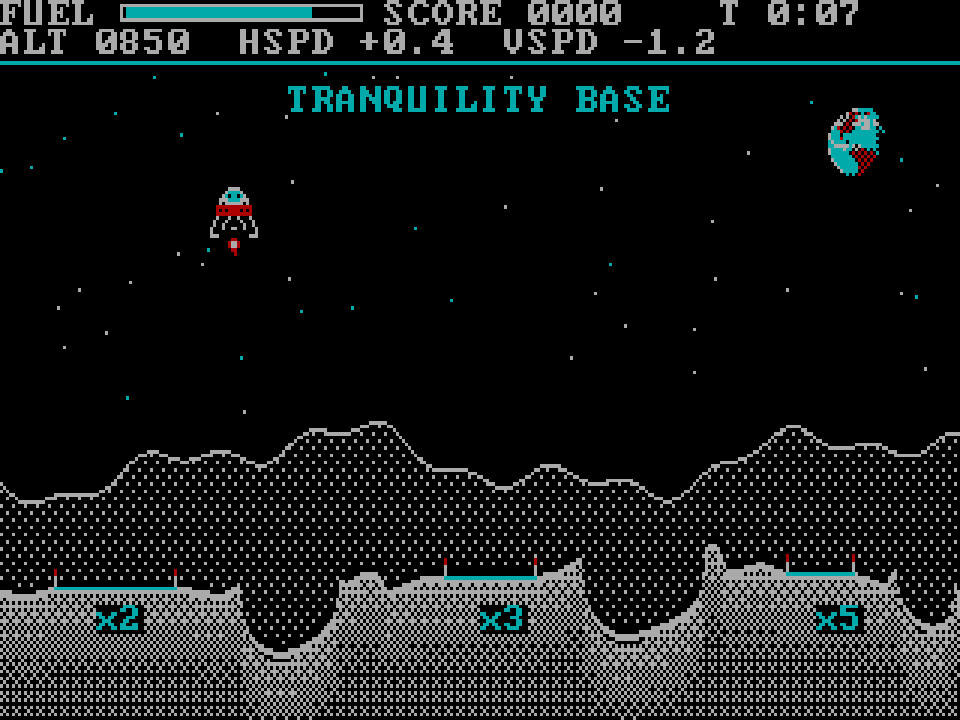
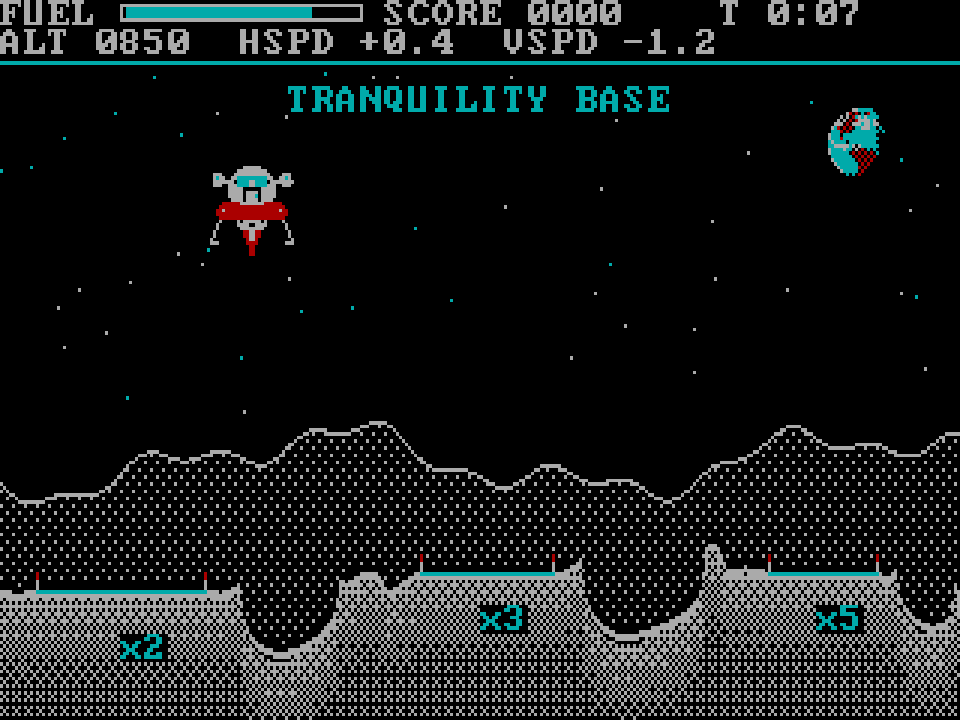
Larger two-stage M1 lander (ascent + descent sprites), wider Easy pads
- tools/mockship2.py: M1 enlarged to 28x22 and split into a 28x10
  ascent stage (cabin, window band, RCS pods, front hatch) and a 28x12
  descent stage (porch, legs, engine bell) for future cutscenes
- Mockups for landing with hatch open and ladder down, and liftoff with
  the descent stage left behind; RCS stays on the ascent stage
- Easy pads widened to 56/44/36 px for the 28 px footprint

Claude-Session: https://claude.ai/code/session_01HSeB1eEUBM7vDXhp8qRXCy

diff --git a/tools/mockship2.py b/tools/mockship2.py
@@ -1,0 +1,151 @@
+"""M1 lander, enlarged and split into two sprites (ascent + descent stage) for future cutscenes.
+Shows: full ship, exploded stages, landed with hatch open + ladder, liftoff sequence, thruster chart.
+"""
+import numpy as np
+from PIL import Image, ImageDraw, ImageFont
+
+PAL = np.array([(0, 0, 0), (0, 170, 170), (170, 0, 0), (170, 170, 170)], np.uint8)
+OUT = "/home/claude/gwbasic/build"
+F = ImageFont.truetype("/usr/share/fonts/truetype/dejavu/DejaVuSans-Bold.ttf", 18)
+FS = ImageFont.truetype("/usr/share/fonts/truetype/dejavu/DejaVuSans.ttf", 15)
+M = {".": 0, "c": 1, "r": 2, "g": 3}
+
+def mirror(half):
+    for h in half: assert len(h) == len(half[0]), h
+    return np.array([[M[c] for c in h + h[::-1]] for h in half], np.uint8)
+
+# 28 wide. Ascent stage: cabin, docking hatch on top, RCS pods, front hatch (closed).
+ASCENT_HALF = [
+    "...........ggg",
+    ".........ggggg",
+    ".ggg....gggggg",
+    ".gcgg..ggccccc",
+    ".ggggggggccccg",   # window band with centre frame
+    ".ggg..gggccccg",
+    "......gggggggg",
+    "......gggggggg",   # hatch drawn below as an outlined panel
+    "......gggggggg",
+    ".......ggggggg",
+]
+# Descent stage: porch, red foil body, bell, splayed legs with foot pads.
+DESCENT_HALF = [
+    "....rrrrrrgggg",   # porch under the hatch
+    "...rrrrrrrrrrr",
+    "..rrgrrrrrrrrr",
+    "..rrrrrrrrrrrr",
+    "...rrrrrrrrrrr",
+    "...g.....g.ggg",   # leg struts + engine bell
+    "..g......gggg.",
+    "..g.......gggg",
+    ".g............",
+    ".g............",
+    "g.............",
+    "ggg...........",
+]
+A = mirror(ASCENT_HALF)
+# hatch: open the centre block with a black panel
+A[6, 11:17] = 0; A[6:10, 11] = 0; A[6:10, 16] = 0; A[8, 15] = 1   # hatch outline + handle
+A[4, 8] = 0; A[4, 19] = 0                                          # notch between cabin and pod arms
+D = mirror(DESCENT_HALF)
+AH, DH, W = A.shape[0], D.shape[0], A.shape[1]
+POD_L, POD_R, POD_Y = 2, W - 3, 4         # pod nozzle centres (in ascent stage coords)
+BELL_Y = 7                                # last bell row in descent stage
+
+def canvas(h, w): return np.zeros((h, w), np.uint8)
+def stamp(px, sp, x, y): px[y:y + sp.shape[0], x:x + sp.shape[1]][sp > 0] = sp[sp > 0]
+def big(px, s): return Image.fromarray(PAL[px]).resize((px.shape[1] * s, int(px.shape[0] * s * 1.2)), Image.NEAREST)
+
+def ship(px, x, y):
+    stamp(px, A, x, y); stamp(px, D, x, y + AH)
+
+def main_plume(px, x, y, length=7):
+    cx = x + W // 2
+    for i in range(length):
+        hw = max(0, 2 - i // 2)
+        px[y + i, cx - 1 - hw:cx + 1 + hw] = 2
+    px[y:y + 3, cx - 1:cx + 1] = 3
+
+JETS = {"side": (-1, 0), "up": (0, -1), "upout": (-1, -1), "downout": (-1, 1)}
+KEYS = {9: [(-1, "downout")], 6: [(-1, "side")], 3: [(-1, "upout")], 2: [(-1, "up"), (1, "up")],
+        1: [(1, "upout")], 4: [(1, "side")], 7: [(1, "downout")]}
+def rcs(px, x, y, key):
+    for side, j in KEYS[key]:
+        dx, dy = JETS[j]
+        if side == 1: dx = -dx
+        x0 = x + (POD_L if side == -1 else POD_R); y0 = y + POD_Y
+        if j == "side": x0 += 2 * dx
+        if j == "up": y0 -= 2
+        if j in ("upout", "downout"): x0 += dx; y0 += dy
+        for k, col in ((1, 3), (2, 3), (3, 1), (4, 1)):
+            px[y0 + dy * k, x0 + dx * k] = col
+
+sheet = Image.new("RGB", (1380, 900), (24, 24, 28)); d = ImageDraw.Draw(sheet)
+S = 8
+# 1. full ship
+p = canvas(AH + DH + 10, W + 4); ship(p, 2, 1); main_plume(p, 2, 1 + AH + BELL_Y + 1)
+d.text((30, 14), f"Full lander {W}x{AH + DH}", font=F, fill=(230, 230, 230))
+sheet.paste(big(p, S), (30, 44))
+q = canvas(AH + DH + 2, W + 2); ship(q, 1, 1)
+d.text((30, 400), "actual x2", font=FS, fill=(150, 150, 150)); sheet.paste(big(q, 2), (30, 420))
+
+# 2. exploded: two sprites
+d.text((330, 14), "Two sprites", font=F, fill=(230, 230, 230))
+pa = canvas(AH + 2, W + 2); stamp(pa, A, 1, 1)
+pd = canvas(DH + 2, W + 2); stamp(pd, D, 1, 1)
+sheet.paste(big(pa, S), (330, 44)); d.text((330, 44 + AH * S * 1.2 + 24), f"ASCENT {W}x{AH}  (cabin, pods, hatch)", font=FS, fill=(200, 200, 200))
+sheet.paste(big(pd, S), (330, 210)); d.text((330, 210 + DH * S * 1.2 + 24), f"DESCENT {W}x{DH}  (porch, legs, bell)", font=FS, fill=(200, 200, 200))
+
+# 3. landed, hatch open, ladder deployed to the ground
+GROUND = AH + DH + 1
+p = canvas(GROUND + 4, W + 10)
+ship(p, 5, 1)
+p[1 + 7:1 + 10, 5 + 12:5 + 16] = 0                      # hatch swung open (dark doorway)
+lx = 5 + 12                                              # ladder rails under the porch
+for yy in range(1 + AH + 1, GROUND):
+    p[yy, lx] = 3; p[yy, lx + 3] = 3
+    if (yy - AH) % 2 == 0: p[yy, lx:lx + 4] = 3
+p[GROUND:, :] = 3
+d.text((640, 14), "Landed: hatch open, ladder down", font=F, fill=(230, 230, 230))
+sheet.paste(big(p, S), (640, 44))
+
+# 4. liftoff: descent stays, ascent rises on its own engine
+d.text((640, 430), "Liftoff: descent stage left behind", font=F, fill=(230, 230, 230))
+for i, gap in enumerate((0, 6, 16)):
+    p = canvas(AH + DH + 22, W + 4)
+    base = 21
+    stamp(p, D, 2, base + AH - 1 + 1)
+    stamp(p, A, 2, base - gap)
+    p[base + AH - 1, :] = np.where(p[base + AH - 1] == 0, 0, p[base + AH - 1])
+    if gap:
+        cx = 2 + W // 2
+        for k in range(min(gap, 6)):                       # ascent engine plume
+            hw = 1 if k < 3 else 0
+            p[base - gap + AH + k, cx - 1 - hw:cx + 1 + hw] = 2 if k else 3
+        if gap < 10:                                       # blast scattering off the porch
+            for sx in (-6, -4, 4, 6):
+                p[base + AH + 1, cx + sx] = 3
+    p[-1, :] = 3
+    sheet.paste(big(p, 5), (640 + i * 245, 466))
+
+sheet.save(f"{OUT}/mock_ship_m1l.png")
+
+# 5. keypad chart for M1-L
+S2 = 5
+cw, ch = (W + 16) * S2 + 20, int((AH + DH + 16) * S2 * 1.2) + 50
+chart = Image.new("RGB", (cw * 3 + 20, ch * 3 + 60), (24, 24, 28)); d = ImageDraw.Draw(chart)
+d.text((14, 12), "M1-L keypad: 8 main engine, others fire the pod jets (green = push)", font=F, fill=(230, 230, 230))
+ARROW = {8: (0, -1), 9: (1, -1), 6: (1, 0), 3: (1, 1), 2: (0, 1), 1: (-1, 1), 4: (-1, 0), 7: (-1, -1)}
+for r, row in enumerate([[7, 8, 9], [4, 5, 6], [1, 2, 3]]):
+    for c, k in enumerate(row):
+        p = canvas(AH + DH + 16, W + 16); ship(p, 8, 7)
+        if k == 8: main_plume(p, 8, 7 + AH + BELL_Y + 1)
+        elif k in KEYS: rcs(p, 8, 7, k)
+        ox, oy = 10 + c * cw, 46 + r * ch
+        chart.paste(big(p, S2), (ox, oy + 30))
+        d.text((ox, oy + 4), {8: "8 MAIN", 5: "5 none"}.get(k, f"{k} RCS"), font=F, fill=(230, 230, 230))
+        if k in ARROW:
+            ax, ay = ARROW[k]; cx, cy = ox + cw - 50, oy + 16
+            d.line((cx - ax * 11, cy - ay * 11, cx + ax * 11, cy + ay * 11), fill=(90, 255, 90), width=4)
+            d.ellipse((cx + ax * 11 - 5, cy + ay * 11 - 5, cx + ax * 11 + 5, cy + ay * 11 + 5), fill=(90, 255, 90))
+chart.save(f"{OUT}/mock_thrusters_M1L.png")
+print(W, AH, DH)

diff --git a/tools/mockscene.py b/tools/mockscene.py
@@ -59,7 +59,7 @@ def build(seed=11):
     # --- foreground terrain (the collision map) ---
     x = np.arange(W)
     g = 162 + 4 * np.sin(x / 47) + 2 * np.sin(x / 17 + 2) + 1.2 * np.sin(x / 6.1)
-    PADS = [(18, 58, "x2"), (148, 178, "x3"), (262, 284, "x5")]
+    PADS = [(12, 68, "x2"), (140, 184, "x3"), (256, 292, "x5")]   # lander feet span 28 px
     CRATERS = [(96, 16, 13), (214, 20, 16), (308, 9, 8)]             # center, radius, depth
     for cx, r, dep in CRATERS:
         for i in range(max(0, cx - int(r * 1.5)), min(W, cx + int(r * 1.5) + 1)):
@@ -125,9 +125,9 @@ for a, b, lab in PADS:
     row = (g[a] + 12) // 8 + 1
     text(px, row, col, lab, 1)
 # lander
-lx, ly = 70, 52
-px[ly:ly + 14, lx:lx + 16][LANDER > 0] = LANDER[LANDER > 0]
-px[ly + 14:ly + 19, lx + 5:lx + 11][FLAME > 0] = FLAME[FLAME > 0]
+import mockship2 as MS
+lx, ly = 70, 46
+MS.ship(px, lx, ly); MS.main_plume(px, lx, ly + MS.AH + MS.BELL_Y + 1)
 
 def big(p, s=3): return Image.fromarray(PAL[p]).resize((W * s, int(H * s * 1.2)), Image.NEAREST)
 big(px).save(f"{OUT}/mock_easy.png")
